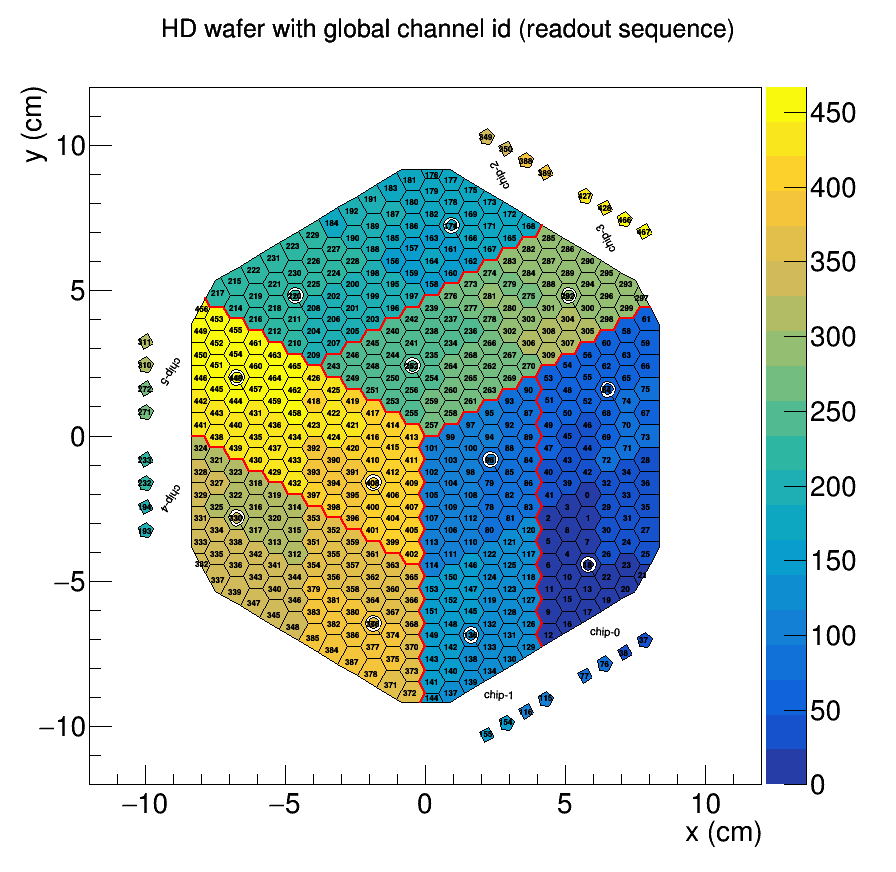
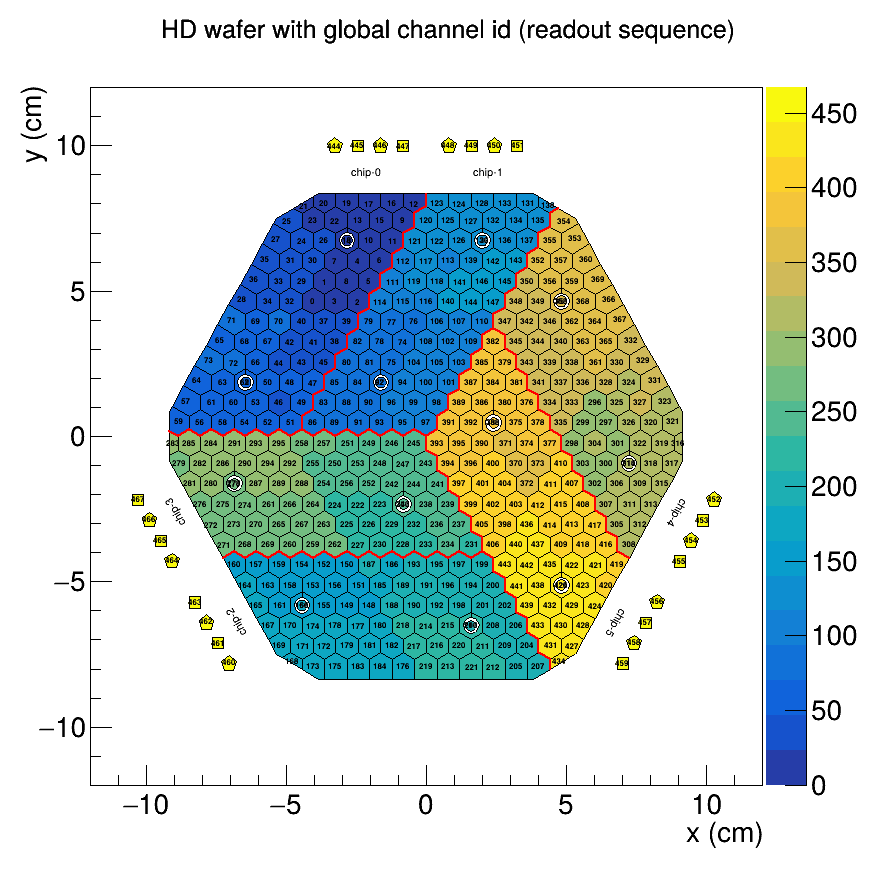
simplify auxiliary lines utils (need to fix pin/chan map issue)

diff --git a/include/auxiliary_boundary_lines_HD_full_wafer.h b/include/auxiliary_boundary_lines_HD_full_wafer.h
@@ -4,18 +4,18 @@
 namespace aux {
 const int N_HD_boundary_points = 24;
 
-double x1_HD_full_wafer[N_HD_boundary_points] = {-7.846875, -7.672500, -7.207500, -6.975000, -6.510000, -6.277500, -5.812500, -5.580000, -5.115000, -4.882500, -4.417500, -4.185000, -3.720000, -3.487500, -3.022500, -2.790000, -2.325000, -2.092500, -1.627500, -1.395000, -0.930000, -0.697500, -0.232500, -0.000000};
-double y1_HD_full_wafer[N_HD_boundary_points] = {4.731746, 4.429720, 4.429720, 4.027018, 4.027018, 3.624316, 3.624316, 3.221615, 3.221615, 2.818913, 2.818913, 2.416211, 2.416211, 2.013509, 2.013509, 1.610807, 1.610807, 1.208105, 1.208105, 0.805404, 0.805404, 0.402702, 0.402702, -0.000000};
-double x2_HD_full_wafer[N_HD_boundary_points] = {8.021250, 7.672500, 7.440000, 6.975000, 6.742500, 6.277500, 6.045000, 5.580000, 5.347500, 4.882500, 4.650000, 4.185000, 3.952500, 3.487500, 3.255000, 2.790000, 2.557500, 2.092500, 1.860000, 1.395000, 1.162500, 0.697500, 0.465000, -0.000000};
-double y2_HD_full_wafer[N_HD_boundary_points] = {4.429720, 4.429720, 4.027018, 4.027018, 3.624316, 3.624316, 3.221615, 3.221615, 2.818913, 2.818913, 2.416211, 2.416211, 2.013509, 2.013509, 1.610807, 1.610807, 1.208105, 1.208105, 0.805404, 0.805404, 0.402702, 0.402702, -0.000000, -0.000000};
-double x3_HD_full_wafer[N_HD_boundary_points] = {-0.174375, 0.000000, -0.232500, 0.000000, -0.232500, 0.000000, -0.232500, 0.000000, -0.232500, -0.000000, -0.232500, -0.000000, -0.232500, 0.000000, -0.232500, -0.000000, -0.232500, -0.000000, -0.232500, -0.000000, -0.232500, -0.000000, -0.232500, -0.000000};
-double y3_HD_full_wafer[N_HD_boundary_points] = {-9.161466, -8.859440, -8.456738, -8.054036, -7.651334, -7.248633, -6.845931, -6.443229, -6.040527, -5.637825, -5.235124, -4.832422, -4.429720, -4.027018, -3.624316, -3.221615, -2.818913, -2.416211, -2.013509, -1.610807, -1.208105, -0.805404, -0.402702, -0.000000};
-double x4_HD_full_wafer[N_HD_boundary_points] = {4.185000, 3.952500, 3.487500, 3.255000, 2.790000, 2.557500, 2.092500, 1.860000, 1.395000, 1.162500, 0.697500, 0.465000, -0.000000, -0.232500, -0.697500, -0.930000, -1.395000, -1.627500, -2.092500, -2.325000, -2.790000, -3.022500, -3.487500, -3.720000};
-double y4_HD_full_wafer[N_HD_boundary_points] = {7.248633, 6.845931, 6.845931, 6.443229, 6.443229, 6.040527, 6.040527, 5.637825, 5.637825, 5.235124, 5.235124, 4.832422, 4.832422, 4.429720, 4.429720, 4.027018, 4.027018, 3.624316, 3.624316, 3.221615, 3.221615, 2.818913, 2.818913, 2.416211};
-double x5_HD_full_wafer[N_HD_boundary_points] = {4.185000, 3.952500, 4.185000, 3.952500, 4.185000, 3.952500, 4.185000, 3.952500, 4.185000, 3.952500, 4.185000, 3.952500, 4.185000, 3.952500, 4.185000, 3.952500, 4.185000, 3.952500, 4.185000, 3.952500, 4.185000, 3.952500, 4.185000, 3.952500};
-double y5_HD_full_wafer[N_HD_boundary_points] = {-7.248633, -6.845931, -6.443229, -6.040527, -5.637825, -5.235124, -4.832422, -4.429720, -4.027018, -3.624316, -3.221615, -2.818913, -2.416211, -2.013509, -1.610807, -1.208105, -0.805404, -0.402702, 0.000000, 0.402702, 0.805404, 1.208105, 1.610807, 2.013509};
-double x6_HD_full_wafer[N_HD_boundary_points] = {-8.370000, -7.905000, -7.672500, -7.207500, -6.975000, -6.510000, -6.277500, -5.812500, -5.580000, -5.115000, -4.882500, -4.417500, -4.185000, -3.720000, -3.487500, -3.022500, -2.790000, -2.325000, -2.092500, -1.627500, -1.395000, -0.930000, -0.697500, -0.232500};
-double y6_HD_full_wafer[N_HD_boundary_points] = {0.000000, -0.000000, -0.402702, -0.402702, -0.805404, -0.805404, -1.208105, -1.208105, -1.610807, -1.610807, -2.013509, -2.013509, -2.416211, -2.416211, -2.818913, -2.818913, -3.221615, -3.221615, -3.624316, -3.624316, -4.027018, -4.027018, -4.429720, -4.429720};
+double x1_HD_full_wafer[N_HD_boundary_points] = {-9.161466, -8.859440, -8.456738, -8.054036, -7.651334, -7.248633, -6.845931, -6.443229, -6.040527, -5.637825, -5.235124, -4.832422, -4.429720, -4.027018, -3.624316, -3.221615, -2.818913, -2.416211, -2.013509, -1.610807, -1.208105, -0.805404, -0.402702, -0.000000};
+double y1_HD_full_wafer[N_HD_boundary_points] = {0.174375, 0.000000, 0.232500, 0.000000, 0.232500, 0.000000, 0.232500, -0.000000, 0.232500, 0.000000, 0.232500, 0.000000, 0.232500, -0.000000, 0.232500, -0.000000, 0.232500, -0.000000, 0.232500, -0.000000, 0.232500, -0.000000, 0.232500, -0.000000};
+double x2_HD_full_wafer[N_HD_boundary_points] = {4.731746, 4.429720, 4.429720, 4.027018, 4.027018, 3.624316, 3.624316, 3.221615, 3.221615, 2.818913, 2.818913, 2.416211, 2.416211, 2.013509, 2.013509, 1.610807, 1.610807, 1.208105, 1.208105, 0.805404, 0.805404, 0.402702, 0.402702, -0.000000};
+double y2_HD_full_wafer[N_HD_boundary_points] = {7.846875, 7.672500, 7.207500, 6.975000, 6.510000, 6.277500, 5.812500, 5.580000, 5.115000, 4.882500, 4.417500, 4.185000, 3.720000, 3.487500, 3.022500, 2.790000, 2.325000, 2.092500, 1.627500, 1.395000, 0.930000, 0.697500, 0.232500, -0.000000};
+double x3_HD_full_wafer[N_HD_boundary_points] = {4.429720, 4.429720, 4.027018, 4.027018, 3.624316, 3.624316, 3.221615, 3.221615, 2.818913, 2.818913, 2.416211, 2.416211, 2.013509, 2.013509, 1.610807, 1.610807, 1.208105, 1.208105, 0.805404, 0.805404, 0.402702, 0.402702, -0.000000, -0.000000};
+double y3_HD_full_wafer[N_HD_boundary_points] = {-8.021250, -7.672500, -7.440000, -6.975000, -6.742500, -6.277500, -6.045000, -5.580000, -5.347500, -4.882500, -4.650000, -4.185000, -3.952500, -3.487500, -3.255000, -2.790000, -2.557500, -2.092500, -1.860000, -1.395000, -1.162500, -0.697500, -0.465000, -0.000000};
+double x4_HD_full_wafer[N_HD_boundary_points] = {0.000000, 0.000000, -0.402702, -0.402702, -0.805404, -0.805404, -1.208105, -1.208105, -1.610807, -1.610807, -2.013509, -2.013509, -2.416211, -2.416211, -2.818913, -2.818913, -3.221615, -3.221615, -3.624316, -3.624316, -4.027018, -4.027018, -4.429720, -4.429720};
+double y4_HD_full_wafer[N_HD_boundary_points] = {8.370000, 7.905000, 7.672500, 7.207500, 6.975000, 6.510000, 6.277500, 5.812500, 5.580000, 5.115000, 4.882500, 4.417500, 4.185000, 3.720000, 3.487500, 3.022500, 2.790000, 2.325000, 2.092500, 1.627500, 1.395000, 0.930000, 0.697500, 0.232500};
+double x5_HD_full_wafer[N_HD_boundary_points] = {7.248633, 6.845931, 6.845931, 6.443229, 6.443229, 6.040527, 6.040527, 5.637825, 5.637825, 5.235124, 5.235124, 4.832422, 4.832422, 4.429720, 4.429720, 4.027018, 4.027018, 3.624316, 3.624316, 3.221615, 3.221615, 2.818913, 2.818913, 2.416211};
+double y5_HD_full_wafer[N_HD_boundary_points] = {-4.185000, -3.952500, -3.487500, -3.255000, -2.790000, -2.557500, -2.092500, -1.860000, -1.395000, -1.162500, -0.697500, -0.465000, -0.000000, 0.232500, 0.697500, 0.930000, 1.395000, 1.627500, 2.092500, 2.325000, 2.790000, 3.022500, 3.487500, 3.720000};
+double x6_HD_full_wafer[N_HD_boundary_points] = {-7.248633, -6.845931, -6.443229, -6.040527, -5.637825, -5.235124, -4.832422, -4.429720, -4.027018, -3.624316, -3.221615, -2.818913, -2.416211, -2.013509, -1.610807, -1.208105, -0.805404, -0.402702, -0.000000, 0.402702, 0.805404, 1.208105, 1.610807, 2.013509};
+double y6_HD_full_wafer[N_HD_boundary_points] = {-4.185000, -3.952500, -4.185000, -3.952500, -4.185000, -3.952500, -4.185000, -3.952500, -4.185000, -3.952500, -4.185000, -3.952500, -4.185000, -3.952500, -4.185000, -3.952500, -4.185000, -3.952500, -4.185000, -3.952500, -4.185000, -3.952500, -4.185000, -3.952500};
 }; // end of aux
 
 #endif // __auxiliary_boundary_lines_HD_full_wafer__

diff --git a/utils/auxiliary_line_producer.py b/utils/auxiliary_line_producer.py
@@ -1,0 +1,152 @@
+import os
+import sys
+import json
+
+utils_dir = os.path.dirname(os.path.abspath(__file__))
+sys.path.append(utils_dir)
+
+import queries_for_coordinates as tc
+
+class AuxiliaryLineProducer():
+    def __init__(self, waferType, json_file):
+        self.waferType = waferType
+
+        # Load JSON data
+        try:
+            with open(json_file, 'r') as f:
+                self.json_data = json.loads(f.read())
+        except FileNotFoundError:
+            print(f"Error: Could not find file {json_file}")
+            self.json_data = {}
+        except json.JSONDecodeError:
+            print(f"Error: Invalid JSON in file {json_file}")
+            self.json_data = {}
+
+    def get_coordinate(self, tuple_query):
+        channel, point = tuple_query
+        x = self.json_data[str(channel)]["x"][point]
+        y = self.json_data[str(channel)]["y"][point]
+        return x, y
+
+    def get_mean_coordinate(self, list_queries):
+        lx, ly = [], []
+        for query in list_queries:
+            x, y = self.get_coordinate(query)
+            lx.append(x)
+            ly.append(y)
+
+        average_x, average_y = sum(lx)/len(lx), sum(ly)/len(ly)
+        return average_x, average_y
+
+    def get_collection_xy(self, line):
+        output_list_x, output_list_y = [], []
+        for ele in line:
+            channels = ele[0]
+            corners  = ele[1]
+            query = zip(channels, corners)
+            x, y = self.get_mean_coordinate(query)
+            output_list_x.append(x)
+            output_list_y.append(y)
+        return output_list_x, output_list_y
+
+    def print_coordinate(self, varName, query, num="N_boundary_points"):
+        varx, vary = varName
+        x, y = self.get_collection_xy(query)
+        output_x = "double %s[%s] = {" % (varx, num)
+        output_y = "double %s[%s] = {" % (vary, num)
+
+        for i in range(len(x)):
+            if not i+1==len(x):
+                output_x += "%f, " % x[i]
+                output_y += "%f, " % y[i]
+            else:
+                output_x += "%f};" % x[i]
+                output_y += "%f};" % y[i]
+
+        self.fout.write(output_x+'\n')
+        self.fout.write(output_y+'\n')
+        # print(output_x)
+        # print(output_y)
+
+    def create_cpp_headers(self):
+        if self.waferType == "full": # LD full
+            fname = "include/auxiliary_boundary_lines.h"
+            self.fout = open(fname, 'w')
+            self.fout.write("#ifndef __auxiliary_boundary_lines__\n")
+            self.fout.write("#define __auxiliary_boundary_lines__\n")
+            self.fout.write("\n")
+
+            self.fout.write("namespace aux {\n")
+            self.fout.write("const int N_boundary_points = 16;\n")
+            self.fout.write("\n")
+            self.print_coordinate(("x1", "y1"), tc.query_line1)
+            self.print_coordinate(("x2", "y2"), tc.query_line2)
+            self.print_coordinate(("x3", "y3"), tc.query_line3)
+            self.print_coordinate(("x4", "y4"), tc.query_line4)
+            self.print_coordinate(("x5", "y5"), tc.query_line5)
+            self.print_coordinate(("x6", "y6"), tc.query_line6)
+            self.fout.write("}; // end of aux\n")
+
+            self.fout.write("\n")
+            self.fout.write("#endif // __auxiliary_boundary_lines__\n")
+            self.fout.close()
+
+        elif self.waferType == "LD3":
+            fname = "include/auxiliary_boundary_lines_partial_wafer.h"
+            self.fout = open(fname, 'w')
+            self.fout.write("#ifndef __auxiliary_boundary_lines_partial_wafer__\n")
+            self.fout.write("#define __auxiliary_boundary_lines_partial_wafer__\n")
+            self.fout.write("\n")
+
+            self.fout.write("namespace aux {\n")
+            self.print_coordinate(("x1_partial_wafer", "y1_partial_wafer"), tc.query_partial_wafer_line1, "15")
+            self.print_coordinate(("x2_partial_wafer", "y2_partial_wafer"), tc.query_partial_wafer_line2, "17")
+            self.fout.write("}; // end of aux\n")
+
+            self.fout.write("\n")
+            self.fout.write("#endif // __auxiliary_boundary_lines_partial_wafer__\n")
+            self.fout.close()
+
+        elif self.waferType == "LD4":
+            fname = "include/auxiliary_boundary_lines_LD4_partial_wafer.h"
+            self.fout = open(fname, 'w')
+            self.fout.write("#ifndef __auxiliary_boundary_lines_LD4_partial_wafer__\n")
+            self.fout.write("#define __auxiliary_boundary_lines_LD4_partial_wafer__\n")
+            self.fout.write("\n")
+
+            self.fout.write("namespace aux {\n")
+            self.print_coordinate(("x1_LD4_partial_wafer", "y1_LD4_partial_wafer"), tc.query_LD4_wafer_line1, "15")
+            self.print_coordinate(("x2_LD4_partial_wafer", "y2_LD4_partial_wafer"), tc.query_LD4_wafer_line2, "17")
+            self.fout.write("}; // end of aux\n")
+
+            self.fout.write("\n")
+            self.fout.write("#endif // __auxiliary_boundary_lines_LD4_partial_wafer__\n")
+            self.fout.close()
+
+        elif self.waferType == "HD":
+            fname = "include/auxiliary_boundary_lines_HD_full_wafer.h"
+            self.fout = open(fname, 'w')
+            self.fout.write("#ifndef __auxiliary_boundary_lines_HD_full_wafer__\n")
+            self.fout.write("#define __auxiliary_boundary_lines_HD_full_wafer__\n")
+            self.fout.write("\n")
+
+            self.fout.write("namespace aux {\n")
+            self.fout.write("const int N_HD_boundary_points = 24;\n")
+            self.fout.write("\n")
+            self.print_coordinate(("x1_HD_full_wafer", "y1_HD_full_wafer"), tc.query_HD_full_wafer_line1, "N_HD_boundary_points")
+            self.print_coordinate(("x2_HD_full_wafer", "y2_HD_full_wafer"), tc.query_HD_full_wafer_line2, "N_HD_boundary_points")
+            self.print_coordinate(("x3_HD_full_wafer", "y3_HD_full_wafer"), tc.query_HD_full_wafer_line3, "N_HD_boundary_points")
+            self.print_coordinate(("x4_HD_full_wafer", "y4_HD_full_wafer"), tc.query_HD_full_wafer_line4, "N_HD_boundary_points")
+            self.print_coordinate(("x5_HD_full_wafer", "y5_HD_full_wafer"), tc.query_HD_full_wafer_line5, "N_HD_boundary_points")
+            self.print_coordinate(("x6_HD_full_wafer", "y6_HD_full_wafer"), tc.query_HD_full_wafer_line6, "N_HD_boundary_points")
+            self.fout.write("}; // end of aux\n")
+
+            self.fout.write("\n")
+            self.fout.write("#endif // __auxiliary_boundary_lines_HD_full_wafer__\n")
+            self.fout.close()
+
+        print(f"[INFO] {fname} is created!")
+
+if __name__ == "__main__":
+    producer = AuxiliaryLineProducer("HD", "data/output_my_coordinate_HD_wafer.json")
+    producer.create_cpp_headers()

diff --git a/exe.py b/exe.py
@@ -1,9 +1,10 @@
-#!/usr/bin/env python2
+#!/usr/bin/env python3
 import math
 import argparse
 import subprocess
 import toolbox.polygon_manager as tp
-from utils.config_handler import load_wafer_contents, get_macro_arguments
+from utils.config_handler import load_wafer_contents, get_macro_arguments, get_json_name_to_export_coordinates
+from utils.auxiliary_line_producer import AuxiliaryLineProducer
 
 parser = argparse.ArgumentParser()
 parser.add_argument('-n', help="number of cells", type=int, default=9999)
@@ -32,12 +33,10 @@ def retrieve_info(line):
     return tuple(result)
 
 def get_registered_polygon_manager(extra_angle, offset_x, offset_y):
-    polygon_manager = tp.PolygonManager(waferType, extra_angle, offset_x, offset_y)
+    polygon_manager = tp.PolygonManager(args.waferType, extra_angle, offset_x, offset_y)
     
     # Load geometry text file
-    with open("./data/WaferCellMapTrg.txt", 'r') as fin: contents = fin.readlines()[beginIdx:endIdx]
-
-    contents = load_wafer_contents(waferType)
+    contents = load_wafer_contents(args.waferType)
     print("[DEBUG] len(contents) = %d" % len(contents))
     
     # Loop over normal channels & non-connected channels
@@ -55,20 +54,22 @@ def get_registered_polygon_manager(extra_angle, offset_x, offset_y):
         if polygon_manager.counter==args.n : break # manually control how many cells to display
 
     # Add additional cells for CM channels
-    for idx, CM in enumerate(tp.tg.gcId[waferType]["CMIds"]):
+    for idx, CM in enumerate(tp.tg.gcId[args.waferType]["CMIds"]):
         channelIds = (CM, -1, -1) # globalId, artificial sicell, rocpin
         polygon_manager.run(channelIds, (-1,-1), "CM", idx, "hex_cm")
         if args.verbose: print(polygon_manager)
 
     # Export geometry root file
+    json_name = get_json_name_to_export_coordinates(args.waferType)
     polygon_manager.export_root_file() # geometry root file for DQM
-    polygon_manager.export_coordinate_data() # store coordinates for auxiliary lines
+    polygon_manager.export_coordinate_data(json_name) # store coordinates for auxiliary lines
     polygon_manager.export_cpp_id_mapping() # store chIds for information wafer map
 
     # return polygon_manager.output_geometry_root_file, polygon_manager.extra_rotation_tb2024
     return polygon_manager
 
 def main():
+    global args
     pm = get_registered_polygon_manager(0., -1.20840 , 2.09301) # default
     # pm = get_registered_polygon_manager(5*math.pi/6., -1.20840 , 2.09301) # default
     # pm = get_registered_polygon_manager(5*math.pi/6. ,  2.09301 , -1.20840) # 150 degree
@@ -85,8 +86,10 @@ if __name__ == "__main__":
         rotationTag = "_rotation30"
 
     if args.drawLine:
-        exe("./toolbox/coordinate_loader.py -w %s" % args.waferType)
+        json_name = get_json_name_to_export_coordinates(args.waferType)
+        producer = AuxiliaryLineProducer(args.waferType, json_name)
+        producer.create_cpp_headers()
 
-    scope, tag, outputName, markerSize = get_macro_arguments()
+    scope, tag, outputName, markerSize = get_macro_arguments(args.waferType)
     exe("root -l -b -q th2poly.C'(\"%s\", \"%s\", %d, %d, \"%s\", %f, \"%s\")'" % (geometry_rootfile, outputName, scope, args.drawLine, tag, markerSize, rotationTag)) # execute root macro for TH2Poly
 

diff --git a/utils/config_handler.py b/utils/config_handler.py
@@ -1,9 +1,9 @@
-#!/usr/bin/env python2
+#!/usr/bin/env python3
 import yaml
 import os
 from typing import Tuple, Dict, List
 
-def load_wafer_config(config_path="./config/wafer_config.yaml"):
+def load_wafer_config(config_path="./config/wafer_config.yaml")->Dict:
     """ Load wafer type configuration from YAML file """
     if not os.path.exists(config_path):
         raise FileNotFoundError("Configuration file not found:", config_path)
@@ -13,7 +13,7 @@ def load_wafer_config(config_path="./config/wafer_config.yaml"):
     
     return config['wafer_types']
 
-def get_macro_arguments(wafer_type):
+def get_macro_arguments(wafer_type)->Tuple:
     """ Get macro arguments for a specific wafer type """
     config = load_wafer_config()
     
@@ -23,7 +23,17 @@ def get_macro_arguments(wafer_type):
     params = config[wafer_type]
     return params['scope'], params['tag'], params['output_name'], params['marker_size']
 
-def load_wafer_contents(wafer_type, file_path="./data/WaferCellMapTrg.txt"):
+def get_json_name_to_export_coordinates(wafer_type)->str:
+    """ Get json file name to export coordinates """
+    config = load_wafer_config()
+    
+    if wafer_type not in config:
+        raise ValueError("Unknown wafer type:", wafer_type)
+    
+    params = config[wafer_type]
+    return params['json_file']
+
+def load_wafer_contents(wafer_type, file_path="./data/WaferCellMapTrg.txt")->List:
     """ Load contents from text file based on wafer type indices """
     config = load_wafer_config()
     

diff --git a/toolbox/polygon_manager.py b/toolbox/polygon_manager.py
@@ -418,16 +418,8 @@ class PolygonManager:
         with open(output_json, 'w') as f:
             json.dump(self.dict_my_chId_mapping, f, indent=4)
 
-    def export_coordinate_data(self):
+    def export_coordinate_data(self, output_json):
         """ export values for auxiliary boundary lines on the wafer map """
-        if self.waferType == "full":
-            output_json = "data/output_my_coordinate_data.json"
-        elif self.waferType == "LD3":
-            output_json = "data/output_my_coordinate_LD3_wafer.json"
-        elif self.waferType == "LD4":
-            output_json = "data/output_my_coordinate_LD4_wafer.json"
-        elif self.waferType == "HD":
-            output_json = "data/output_my_coordinate_HD_wafer.json"
         with open(output_json, 'w') as f:
             json.dump(self.dict_my_coordinate_data, f, indent=4)
 

diff --git a/README.md b/README.md
@@ -1,5 +1,12 @@
 # hexagonal_histograms
 
+## Environment
+
+On lxplus,
+```
+source /cvmfs/sft.cern.ch/lcg/app/releases/ROOT/6.34.04/x86_64-almalinux9.5-gcc115-opt/bin/thisroot.sh
+```
+
 ## Commands
 ```
 $ git clone -b dev git@github.com:ywkao/hexagonal_histograms.git
